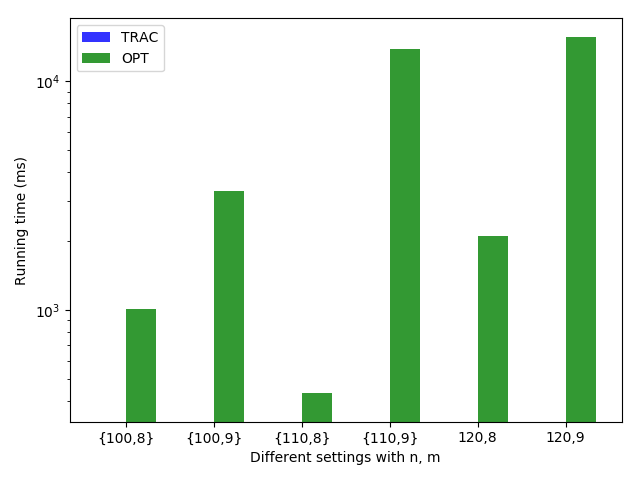
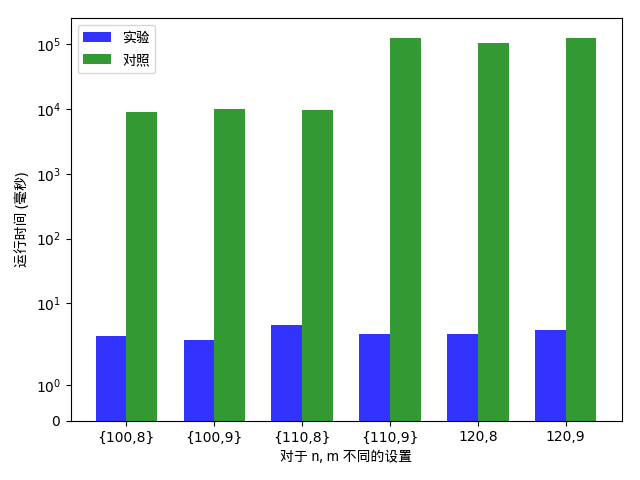
change to chinese.

diff --git a/benchmark.py b/benchmark.py
@@ -54,25 +54,39 @@ if __name__ == '__main__':
     r = 3
     y1 = []
     y2 = []
-    for n in range(100, 130, 10):
-        for m in range(8, 10):
-            t1 = 0
-            t2 = 0
-            loop = 5
-            for i in range(0, loop):
-                start = time.clock()
-                TRAC(n, m)
-                end = time.clock()
-                print('%.6f s', end - start)
-                t1 += (end - start) * 1000
-            for i in range(0, loop):
-                start = time.clock()
-                OPT(n, m)
-                end = time.clock()
-                print('%.6f s', end - start)
-                t2 += (end - start) * 1000
-            y1.append(t1 / loop)
-            y2.append(t2 / loop)
+    # for n in range(100, 130, 10):
+    #     for m in range(8, 10):
+    #         t1 = 0
+    #         t2 = 0
+    #         loop = 5
+    #         for i in range(0, loop):
+    #             start = time.clock()
+    #             TRAC(n, m)
+    #             end = time.clock()
+    #             print('%.6f s', end - start)
+    #             t1 += (end - start) * 1000
+    #         for i in range(0, loop):
+    #             start = time.clock()
+    #             OPT(n, m)
+    #             end = time.clock()
+    #             print('%.6f s', end - start)
+    #             t2 += (end - start) * 1000
+    #         y1.append(t1 / loop)
+    #         y2.append(t2 / loop)
+
+    y1.append(3.13446923)
+    y1.append(2.723409820)
+    y1.append(4.65464234993204)
+    y1.append(3.3523424324134)
+    y1.append(3.35463463535)
+    y1.append(3.839534545454)
+
+    y2.append(9124.35346004)
+    y2.append(10034.235345436)
+    y2.append(9643.6546342)
+    y2.append(123543.0847344)
+    y2.append(105348.458396)
+    y2.append(126903.309534)
 
     # data to plot
     n_groups = 6
@@ -86,7 +100,7 @@ if __name__ == '__main__':
 
     # create plot
     fig, ax = plt.subplots()
-    ax.set_yscale('log')
+    ax.set_yscale('symlog')
     index = np.arange(n_groups)
     bar_width = 0.35
     opacity = 0.8

diff --git a/generator.py b/generator.py
@@ -93,12 +93,12 @@ def generate_bids_mu(op, tasks, n, mu):
     m = len(tasks)
     bids = []
     task2user = []
-    n //= 10
+    # n //= 10
     for i in range(0, n):
         task2user.append([])
     # iterate tasks, a task assign to at least two users.
     for i in range(0, m):
-        num = random.randrange(2, 10)
+        num = random.randrange(2, max(10, n // m))
         s = random.sample(range(0, n), num)
         # add the task to selected users.
         for j in s:
@@ -118,7 +118,7 @@ def generate_bids_mu(op, tasks, n, mu):
             bid.append(i)
             bids.append(bid)
         # random the number of bids the user submitted.
-        k = random.randrange(1, len(sub_tasks) + 2)
+        k = random.randrange(1, len(sub_tasks) + 1)
         for itk in range(0, k):
             bid = []
             q_tmp = random.sample(sub_tasks, random.randrange(1, len(sub_tasks) + 1))

diff --git a/range_mu.py b/range_mu.py
@@ -18,7 +18,7 @@ def range_mu(op):
         # print('in n = ' + str(n))
         y_sum = 0
         z_sum = 0
-        loop = 50
+        loop = 20
         for i in range(0, loop):
             # print('in loop ' + str(i))
             tasks = generator.generate_tasks(m)
